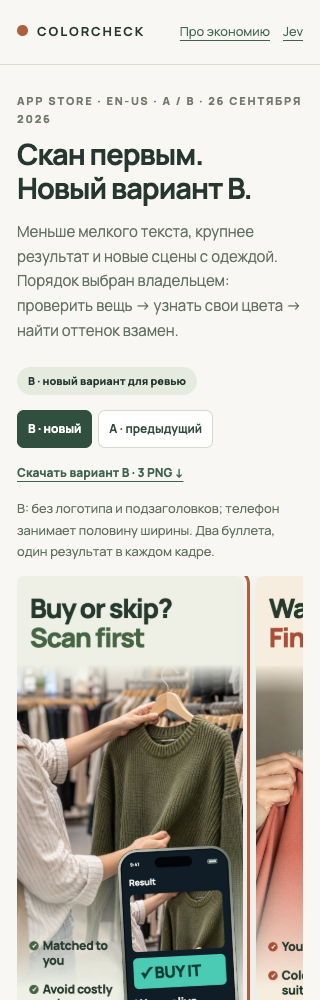
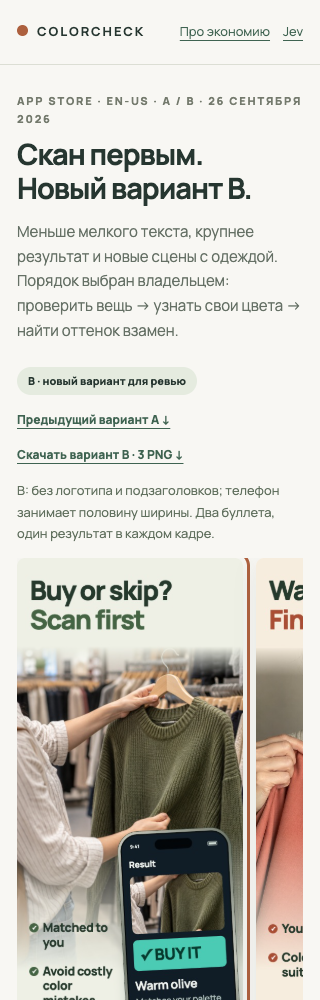
Stack ColorCheck screenshot versions instead of tabs

Changed region(s): [[0.0312, 0.403, 0.9688, 1.0]]

diff --git a/colorcheck/screenshots/index.html b/colorcheck/screenshots/index.html
@@ -2,14 +2,15 @@
 @font-face{font-family:Manrope;src:url('v4/fonts/Manrope.ttf');font-weight:200 800;font-display:swap}*{box-sizing:border-box}html{scroll-behavior:smooth;scroll-padding-top:30px}body{margin:0;background:#f8f7f3;color:#263630;font:15px/1.65 Manrope,system-ui,sans-serif}a{color:#3f6351;text-underline-offset:4px}button,select{font:inherit}button,a,select{touch-action:manipulation}button:focus-visible,a:focus-visible,select:focus-visible{outline:3px solid #ad603e;outline-offset:4px}nav,main,footer{max-width:1180px;margin:auto;padding:0 28px}nav{min-height:74px;display:flex;align-items:center;justify-content:space-between;gap:20px;border-bottom:1px solid #dcded4}nav b{font-size:13px;letter-spacing:2px}nav b:before{content:'';display:inline-block;width:11px;height:11px;background:#ad603e;border-radius:50%;margin-right:9px}nav div{display:flex;gap:22px;font-size:13px}header{padding:39px 0 23px}.eyebrow{font-size:11px;letter-spacing:1.8px;text-transform:uppercase;color:#747a6d;font-weight:800}h1{font-size:clamp(29px,4.1vw,49px);letter-spacing:-2px;line-height:1.15;margin:10px 0 15px}header p{max-width:790px;font-size:16px;color:#657065;margin:0}.badge{display:inline-block;font-size:11px;font-weight:800;border-radius:20px;background:#e5ebdf;padding:5px 11px;margin-bottom:12px}.toolbar{display:flex;justify-content:space-between;align-items:center;gap:15px;flex-wrap:wrap;margin:3px 0 16px}.order{display:flex;gap:6px;flex-wrap:wrap}.order button{border:1px solid #d4dbcf;background:#fff;color:#334b3e;padding:9px 14px;border-radius:7px;cursor:pointer;font-size:13px;font-weight:700}.order button[aria-pressed=true]{background:#304f3e;border-color:#304f3e;color:white}.toolbar>a{font-size:12px;font-weight:800}.shots{display:grid;grid-template-columns:repeat(3,minmax(0,1fr));gap:18px;align-items:start}.tile{margin:0;min-width:0}.open-image{padding:0;display:block;border:0;background:none;cursor:zoom-in;width:100%;border-radius:8px;overflow:hidden;box-shadow:0 5px 24px #26363012}.open-image img{display:block;width:100%;height:auto}.caption{display:flex;gap:12px;margin-top:17px}.caption>span{font-size:11px;font-weight:800;color:#85927e;padding-top:3px}.caption b{display:block;font-size:15px;line-height:1.4}.caption p{font-size:13px;color:#6b7468;margin:6px 0}.caption a{font-size:12px}.note{color:#687266;font-size:13px;max-width:940px}.order-note{min-height:43px}.decision{padding:25px 28px;background:#e9eee3;border-left:4px solid #607c59;margin-top:30px;display:grid;grid-template-columns:1fr 1.5fr;gap:25px}.decision h2{margin:0;font-size:25px;line-height:1.35;letter-spacing:-.7px}.decision p{margin:0;color:#4c5d4e;font-size:14px}section{padding:42px 0 5px;border-top:1px solid #dedfd6;margin-top:35px}h2{font-size:29px;line-height:1.25;letter-spacing:-.8px;margin:10px 0 14px}h3{font-size:17px;line-height:1.4;margin:0 0 9px}.intro{max-width:830px;color:#62705f}.mini-grid{display:grid;grid-template-columns:repeat(3,1fr);gap:14px;margin:22px 0}.card{background:white;border:1px solid #dfe3d8;padding:21px;border-radius:9px}.card p{font-size:13px;color:#687163;margin:0}.card strong{display:block;font-size:29px;line-height:1.15;margin-bottom:10px;letter-spacing:-.6px}.research-controls{display:flex;align-items:center;gap:12px;flex-wrap:wrap;margin:20px 0 8px}label{font-size:13px;font-weight:800}select{border:1px solid #cbd2c4;border-radius:7px;background:white;padding:8px 12px;color:#304332;max-width:100%;font-size:13px}.scroll{overflow-x:auto}table{border-collapse:collapse;width:100%;background:#fff;font-size:13px}th,td{text-align:left;border-bottom:1px solid #e5e7df;padding:13px 14px;vertical-align:top}th{color:#71816b;font-size:10px;text-transform:uppercase;letter-spacing:1px;background:#f0f2eb}tr.selected{background:#ecf2e6}.num{font-variant-numeric:tabular-nums;white-space:nowrap}.bar{display:inline-block;width:65px;height:5px;border-radius:4px;background:#e3e9dd;vertical-align:middle;margin-right:10px}.bar i{display:block;height:100%;background:#7e9770}.split{display:grid;grid-template-columns:1fr 1fr;gap:25px;margin:24px 0}.split p{font-size:14px;color:#60705e}.readability{max-width:708px}.readability img{display:block;width:100%;height:auto;border:1px solid #e2e5db;border-radius:8px}.links{display:flex;gap:18px;flex-wrap:wrap;font-size:13px;margin:15px 0}.archive{display:grid;grid-template-columns:repeat(3,1fr);gap:18px}.archive img{width:100%;height:auto;display:block;border-radius:5px}.archive a{font-size:13px}.limits{background:#f2eae0;padding:19px 23px;border-radius:8px;font-size:13px;color:#765b43}footer{border-top:1px solid #dde2d5;margin-top:45px;padding-top:22px;padding-bottom:35px;font-size:12px;color:#71806a}dialog{padding:0;border:0;background:#17291f;max-width:96vw;max-height:96vh;border-radius:12px;color:#fff}dialog::backdrop{background:#152018e6}.lightbox-tools{display:flex;align-items:center;justify-content:center;gap:10px;position:sticky;top:0;padding:10px;background:#17291fee;flex-wrap:wrap}.lightbox-tools button,.lightbox-tools a{border:1px solid #7c8b7d;color:white;background:transparent;border-radius:5px;padding:5px 12px;cursor:pointer;text-decoration:none;font-size:13px}#zoom-img{display:block;max-height:82vh;max-width:90vw;width:auto;height:auto;margin:auto}#zoom-img.expanded{max-height:none;width:1320px;max-width:none}.lightbox-content{overflow:auto;max-height:84vh}#zoom-caption{font-size:12px;margin:0 6px}
 @media(max-width:760px){nav,main,footer{padding-left:17px;padding-right:17px}nav{min-height:65px}nav div{gap:13px}nav div a:last-child{display:none}header{padding-top:27px}h1{letter-spacing:-1px}.shots{display:flex;overflow-x:auto;gap:13px;scroll-snap-type:x mandatory;padding:0 0 15px}.tile{flex:0 0 79%;scroll-snap-align:start}.decision{grid-template-columns:1fr;gap:12px;padding:22px}.mini-grid{grid-template-columns:1fr}.card{padding:17px}.card strong{font-size:23px}.split{grid-template-columns:1fr;gap:10px}.archive{gap:9px}.caption b{font-size:14px}.order button{padding:8px 10px;font-size:12px}section{padding-top:27px}h2{font-size:25px}.lightbox-tools{gap:6px}.bar{display:none}}
 
-[hidden]{display:none!important}.tabs-note{font-size:13px;color:#61705e;max-width:900px}.changes{display:grid;grid-template-columns:repeat(4,1fr);gap:13px;margin:23px 0}.changes .card{padding:18px}.changes b{display:block;font-size:17px;line-height:1.35;margin-bottom:7px}.money-answer{font-size:20px;line-height:1.5;max-width:850px}.money-answer b{color:#426047}.archive-links{display:flex;gap:18px;flex-wrap:wrap}#panel-A .shots,#panel-B .shots{min-width:0}header p{max-width:810px}.variant-panel{margin-top:10px}.under-gallery{font-size:13px;color:#667361;margin:20px 0}.download-note{font-size:11px;color:#75806e}.review-hint{font-size:13px;padding:13px 17px;background:#e7eddf;border-radius:8px}.note code{overflow-wrap:anywhere}@media(max-width:760px){.changes{grid-template-columns:1fr 1fr}.changes .card{padding:14px}.changes b{font-size:15px}.money-answer{font-size:17px}header p{font-size:15px}.toolbar{align-items:flex-start}}
-</style></head><body><nav><b>COLORCHECK</b><div><a href="#money">Про экономию</a><a href="#jev">Jev</a><a href="#history">История</a></div></nav><main><header><div class="eyebrow">App Store · EN-US · A / B · 26 сентября 2026</div><h1>Скан первым.<br>Новый вариант B.</h1><p>Меньше мелкого текста, крупнее результат и новые сцены с одеждой. Порядок выбран владельцем: проверить вещь → узнать свои цвета → найти оттенок взамен.</p></header><span class="badge">B · новый вариант для ревью</span><div class="toolbar"><div class="order" aria-label="Варианты скриншотов"><button type="button" data-tab="B" aria-pressed="true">B · новый</button><button type="button" data-tab="A" aria-pressed="false">A · предыдущий</button></div><a id="download-set" href="v5/exports/colorcheck-B.zip" download>Скачать вариант B · 3 PNG ↓</a></div><p class="tabs-note" id="tabs-note">B: без логотипа и подзаголовков; телефон занимает половину ширины. Два буллета, один результат в каждом кадре.</p><div class="variant-panel" id="panel-B" ><div class="shots"><figure class="tile"><button class="open-image" data-image="C02" data-variant="B" aria-label="Увеличить B1: Buy or skip? Scan first"><img src="v5/previews/C02.jpg" width="440" height="956" alt="Buy or skip? Scan first"></button><figcaption class="caption"><span>B1</span><div><b>Проверить цвет до покупки</b><p>Buy or skip? / Scan first</p><a href="v5/exports/C02.png" download>Скачать PNG ↗</a></div></figcaption></figure><figure class="tile"><button class="open-image" data-image="C01" data-variant="B" aria-label="Увеличить B2: Washed out? Find your colors"><img src="v5/previews/C01.jpg" width="440" height="956" alt="Washed out? Find your colors"></button><figcaption class="caption"><span>B2</span><div><b>Найти свои цвета</b><p>Washed out? / Find your colors</p><a href="v5/exports/C01.png" download>Скачать PNG ↗</a></div></figcaption></figure><figure class="tile"><button class="open-image" data-image="C03" data-variant="B" aria-label="Увеличить B3: Wrong color? Try these shades"><img src="v5/previews/C03.jpg" width="440" height="956" alt="Wrong color? Try these shades"></button><figcaption class="caption"><span>B3</span><div><b>Получить оттенки взамен</b><p>Wrong color? / Try these shades</p><a href="v5/exports/C03.png" download>Скачать PNG ↗</a></div></figcaption></figure></div></div><div class="variant-panel" id="panel-A" hidden><div class="shots"><figure class="tile"><button class="open-image" data-image="C02" data-variant="A" aria-label="Увеличить A1: Your color? Scan to check"><img src="v4/previews/C02.jpg" width="440" height="956" alt="Your color? Scan to check"></button><figcaption class="caption"><span>A1</span><div><b>Проверить цвет до покупки</b><p>Your color? / Scan to check</p><a href="v4/exports/C02.png" download>Скачать PNG ↗</a></div></figcaption></figure><figure class="tile"><button class="open-image" data-image="C01" data-variant="A" aria-label="Увеличить A2: Which colors suit you?"><img src="v4/previews/C01.jpg" width="440" height="956" alt="Which colors suit you?"></button><figcaption class="caption"><span>A2</span><div><b>Найти свои цвета</b><p>Which colors / suit you?</p><a href="v4/exports/C01.png" download>Скачать PNG ↗</a></div></figcaption></figure><figure class="tile"><button class="open-image" data-image="C03" data-variant="A" aria-label="Увеличить A3: Wrong color? Try these shades"><img src="v4/previews/C03.jpg" width="440" height="956" alt="Wrong color? Try these shades"></button><figcaption class="caption"><span>A3</span><div><b>Получить оттенки взамен</b><p>Wrong color? / Try these shades</p><a href="v4/exports/C03.png" download>Скачать PNG ↗</a></div></figcaption></figure></div></div><p class="under-gallery">Нажмите на кадр для увеличения. На телефоне ряд листается горизонтально. В обоих вариантах для сравнения скан стоит первым; исходные PNG варианта A сохранены без изменений.</p>
+[hidden]{display:none!important}.version-note{font-size:13px;color:#61705e;max-width:900px}.changes{display:grid;grid-template-columns:repeat(4,1fr);gap:13px;margin:23px 0}.changes .card{padding:18px}.changes b{display:block;font-size:17px;line-height:1.35;margin-bottom:7px}.money-answer{font-size:20px;line-height:1.5;max-width:850px}.money-answer b{color:#426047}.archive-links{display:flex;gap:18px;flex-wrap:wrap}#panel-A .shots,#panel-B .shots{min-width:0}header p{max-width:810px}.variant-panel{margin-top:10px}.under-gallery{font-size:13px;color:#667361;margin:20px 0}.download-note{font-size:11px;color:#75806e}.review-hint{font-size:13px;padding:13px 17px;background:#e7eddf;border-radius:8px}.note code{overflow-wrap:anywhere}@media(max-width:760px){.changes{grid-template-columns:1fr 1fr}.changes .card{padding:14px}.changes b{font-size:15px}.money-answer{font-size:17px}header p{font-size:15px}.toolbar{align-items:flex-start}}
+</style></head><body><nav><b>COLORCHECK</b><div><a href="#money">Про экономию</a><a href="#jev">Jev</a><a href="#history">История</a></div></nav><main><header><div class="eyebrow">App Store · EN-US · A / B · 26 сентября 2026</div><h1>Скан первым.<br>Новый вариант B.</h1><p>Меньше мелкого текста, крупнее результат и новые сцены с одеждой. Порядок выбран владельцем: проверить вещь → узнать свои цвета → найти оттенок взамен.</p></header><span class="badge">B · новый вариант для ревью</span><div class="toolbar"><a href="#previous-A">Предыдущий вариант A ↓</a><a id="download-b" href="v5/exports/colorcheck-B.zip" download>Скачать вариант B · 3 PNG ↓</a></div><p class="version-note">B: без логотипа и подзаголовков; телефон занимает половину ширины. Два буллета, один результат в каждом кадре.</p><div class="variant-panel" id="panel-B"><div class="shots"><figure class="tile"><button class="open-image" data-image="C02" data-variant="B" aria-label="Увеличить B1: Buy or skip? Scan first"><img src="v5/previews/C02.jpg" width="440" height="956" alt="Buy or skip? Scan first"></button><figcaption class="caption"><span>B1</span><div><b>Проверить цвет до покупки</b><p>Buy or skip? / Scan first</p><a href="v5/exports/C02.png" download>Скачать PNG ↗</a></div></figcaption></figure><figure class="tile"><button class="open-image" data-image="C01" data-variant="B" aria-label="Увеличить B2: Washed out? Find your colors"><img src="v5/previews/C01.jpg" width="440" height="956" alt="Washed out? Find your colors"></button><figcaption class="caption"><span>B2</span><div><b>Найти свои цвета</b><p>Washed out? / Find your colors</p><a href="v5/exports/C01.png" download>Скачать PNG ↗</a></div></figcaption></figure><figure class="tile"><button class="open-image" data-image="C03" data-variant="B" aria-label="Увеличить B3: Wrong color? Try these shades"><img src="v5/previews/C03.jpg" width="440" height="956" alt="Wrong color? Try these shades"></button><figcaption class="caption"><span>B3</span><div><b>Получить оттенки взамен</b><p>Wrong color? / Try these shades</p><a href="v5/exports/C03.png" download>Скачать PNG ↗</a></div></figcaption></figure></div></div><p class="under-gallery">Нажмите на кадр для увеличения. На телефоне ряд листается горизонтально. Предыдущий вариант A показан ниже на этой странице. В обоих рядах скан стоит первым.</p>
 <div class="changes"><div class="card"><b>Убран шум</b><p>Нет маленького логотипа и строки под заголовком.</p></div><div class="card"><b>Крупнее результат</b><p>Телефон 220 px вместо 155. Основной текст результата 21–31 px.</p></div><div class="card"><b>Другие фотографии</b><p>Руки, ткань, обычный гардероб. Без окна и городского фона.</p></div><div class="card"><b>Цепче заголовки</b><p>Buy or skip? · Washed out? Короткий вопрос и понятное действие.</p></div></div>
+<section id="previous-A"><div class="eyebrow">Предыдущая версия · сохранена без изменений</div><h2>Вариант A</h2><p class="intro">Более ранняя тройка с небольшим телефоном. Оставлена целиком ниже нового B, чтобы сравнивать без переключения.</p><div class="toolbar"><a href="#panel-B">К новому варианту B ↑</a><a id="download-a" href="v4/exports/colorcheck-v4.zip" download>Скачать вариант A · 3 PNG ↓</a></div><div class="variant-panel" id="panel-A"><div class="shots"><figure class="tile"><button class="open-image" data-image="C02" data-variant="A" aria-label="Увеличить A1: Your color? Scan to check"><img src="v4/previews/C02.jpg" width="440" height="956" alt="Your color? Scan to check"></button><figcaption class="caption"><span>A1</span><div><b>Проверить цвет до покупки</b><p>Your color? / Scan to check</p><a href="v4/exports/C02.png" download>Скачать PNG ↗</a></div></figcaption></figure><figure class="tile"><button class="open-image" data-image="C01" data-variant="A" aria-label="Увеличить A2: Which colors suit you?"><img src="v4/previews/C01.jpg" width="440" height="956" alt="Which colors suit you?"></button><figcaption class="caption"><span>A2</span><div><b>Найти свои цвета</b><p>Which colors / suit you?</p><a href="v4/exports/C01.png" download>Скачать PNG ↗</a></div></figcaption></figure><figure class="tile"><button class="open-image" data-image="C03" data-variant="A" aria-label="Увеличить A3: Wrong color? Try these shades"><img src="v4/previews/C03.jpg" width="440" height="956" alt="Wrong color? Try these shades"></button><figcaption class="caption"><span>A3</span><div><b>Получить оттенки взамен</b><p>Wrong color? / Try these shades</p><a href="v4/exports/C03.png" download>Скачать PNG ↗</a></div></figcaption></figure></div></div></section>
 <section id="money"><div class="eyebrow">Ответ на вопрос про деньги</div><h2>Да, мотив экономии нужен.</h2><p class="money-answer">В B1 он выражен как <b>“Avoid costly color mistakes”</b> — «избегай дорогих ошибок с цветом». Человек видит, зачем проверять вещь до покупки, и сразу получает пример BUY / SKIP.</p><p class="intro">Сумму экономии не придумываем: приложение проверяет цвет, а не гарантирует, что человек потратит меньше. Поэтому здесь нет “Saved $79” и обещания “Save money on clothes”.</p><div class="scroll"><table><thead><tr><th>Второй буллет при точном финальном заголовке B1</th><th>Предпочтение Jev</th><th>Проход A</th><th>Проход B</th></tr></thead><tbody><tr class="selected"><td>Avoid costly color mistakes</td><td class="num">0.589</td><td class="num">0.528</td><td class="num">0.651</td></tr><tr class=""><td>Scan before you spend</td><td class="num">0.288</td><td class="num">0.351</td><td class="num">0.224</td></tr><tr class=""><td>Save money on clothes</td><td class="num">0.092</td><td class="num">0.090</td><td class="num">0.094</td></tr><tr class=""><td>None</td><td class="num">0.018</td><td class="num">0.017</td><td class="num">0.018</td></tr><tr class=""><td>Matched to your palette</td><td class="num">0.013</td><td class="num">0.014</td><td class="num">0.013</td></tr></tbody></table></div><p class="note">60 запросов на 30 синтетических профилях, два порядка ответов. Заголовок: Buy or skip? / Scan first; первый буллет: Matched to you. Вероятности модели среди этих вариантов, не проценты скачиваний. Последняя формулировка дублирует первый буллет.</p></section>
 <section id="jev"><div class="eyebrow">Копирайт · Codex × Jev</div><h2>Что проверили перед вариантом B.</h2><p class="intro">Три набора заголовков и формулировки про деньги. Сначала 60 запросов, затем ещё 60 на точном финальном первом кадре. Использованы те же 30 профилей. Фотографии и готовую композицию Jev не видел.</p><div class="scroll"><table><thead><tr><th>Кадр</th><th>Выбранный заголовок</th><th>Предпочтение</th><th>Проход A</th><th>Проход B</th></tr></thead><tbody><tr><td>B1 · скан</td><td><b>Buy or skip? / Scan first</b></td><td class="num">0.737</td><td class="num">0.855</td><td class="num">0.619</td></tr><tr><td>B2 · палитра</td><td><b>Washed out? / Find your colors</b></td><td class="num">0.424</td><td class="num">0.334</td><td class="num">0.514</td></tr><tr><td>B3 · замена</td><td><b>Wrong color? / Try these shades</b></td><td class="num">0.567</td><td class="num">0.451</td><td class="num">0.682</td></tr></tbody></table></div><p class="note">Для палитры лидер меняется между проходами: Stop guessing / what suits you выигрывает A. Выбран Washed out? за конкретную проблему и явное слово colors. Третий заголовок сохранён из A: более громкие варианты не улучшили ясность. Полные готовые серии A/B здесь не сравнивались, выигрыш конверсии не измерен.</p><div class="links"><a href="v5/research/FINDINGS.md">Полный разбор ↗</a><a href="v5/research/summary.json">Турнир заголовков · JSON ↗</a><a href="v5/research/final-money-summary.json">Экономия в финальном контексте · JSON ↗</a><a href="https://github.com/love8ko/colorcheck/tree/love8ko/screenshots/research/screenshots-conversion-v5">Промпты и ответы · приватный GitHub ↗</a></div></section>
 <section><div class="eyebrow">Масштаб App Store</div><h2>Вариант B при ширине 220 px.</h2><div class="readability"><a href="v5/previews/contact-220.png"><img src="v5/previews/contact-220.png" width="708" height="502" alt="Вариант B: скан, палитра, оттенки взамен — 220 пикселей на кадр" loading="lazy"></a></div><div class="links"><a href="v5/previews/contact-180.png">Посмотреть при 180 px ↗</a><a href="v5/copy.json">Точный текст B ↗</a><a href="v5/qa/render.json">Размеры, переполнения, хеши ↗</a></div><p class="note">Фото сгенерированы встроенным ImageGen. Новый визуальный подход делает акцент на действии и тканях, но это всё ещё иллюстрации, а не документальная съёмка. Интерфейс в телефоне укрупнён и упрощён для концепта. Сезон, BUY/SKIP и оттенки взамен соответствуют функциям кода; runtime-прогон в этой итерации не выполнялся.</p></section>
-<section id="history"><div class="eyebrow">Сохранённые версии</div><h2>A остаётся рядом с B.</h2><div class="archive-links"><a href="archive/v4/">Исходная страница A / V4 с консилиумом ↗</a><a href="archive/v3/">V3 · маленький телефон ↗</a><a href="archive/v2/">V2 · сцены ↗</a></div><p class="note">Для текущего сравнения A/B скан первым зафиксирован по выбору владельца. Старый эксперимент с палитрой первой доступен в архиве. После выбора визуального варианта можно сравнивать реальные скачивания при неизменных остальных условиях.</p></section></main><footer>ColorCheck · вариант B · 26 сентября 2026. Концепт для ревью. Реальная конверсия не измерена; в App Store Connect не загружено.</footer>
+<section id="history"><div class="eyebrow">Сохранённые версии</div><h2>История вариантов.</h2><div class="archive-links"><a href="archive/v4/">Исходная страница A / V4 с консилиумом ↗</a><a href="archive/v3/">V3 · маленький телефон ↗</a><a href="archive/v2/">V2 · сцены ↗</a></div><p class="note">Для текущего сравнения A/B скан первым зафиксирован по выбору владельца. Старый эксперимент с палитрой первой доступен в архиве. После выбора визуального варианта можно сравнивать реальные скачивания при неизменных остальных условиях.</p></section></main><footer>ColorCheck · вариант B · 26 сентября 2026. Концепт для ревью. Реальная конверсия не измерена; в App Store Connect не загружено.</footer>
 <dialog id="zoom" aria-label="Просмотр скриншота"><div class="lightbox-tools"><button id="prev" type="button" aria-label="Предыдущий">←</button><span id="zoom-caption"></span><button id="next" type="button" aria-label="Следующий">→</button><button id="enlarge" type="button">100%</button><a id="save" download>PNG ↓</a><button id="close" type="button">Закрыть ×</button></div><div class="lightbox-content"><img id="zoom-img" alt=""></div></dialog><script>
-const SETS={"A":{"rev":"v4","frames":[{"headline":["Your color?","Scan to check"],"benefit":"Check clothes before you buy","visibleProof":["BUY or SKIP","Matched to you"],"scene":"Woman comparing an olive sweater in a clothing store; small phone showing BUY result and explanation, with enlarged result callouts.","id":"C02","asset":"S01-store.jpg","theme":"green","pain":"Не понимаю, подходит ли цвет вещи до покупки","role":"Практическое применение своей палитры в магазине","ui":{"title":"Result","verdict":"BUY IT","match":"Matches your palette","why":"Why it works","reason":"Warm olive complements your Warm Autumn palette.","button":"Scan Next"},"proof":["BUY or SKIP","Matched to you"],"source":"ColorCheck/ColorCheck/Views/Scanner/ScanResultView.swift","kind":"scan","brand":"COLORCHECK","statusTime":"9:41","dimensions":[1320,2868],"readiness":"for-review","sourceProductCommit":"836e724aa8afbfdbe0f8e2af5b7858f67f81e8d0","visualLimit":"Illustrative composition and reconstructed UI based on code; not a live app capture. Example AI result. No measured accuracy or financial result."},{"headline":["Which colors","suit you?"],"benefit":"Find your season & palette","visibleProof":["Warm Autumn","Your colors"],"scene":"Woman taking a selfie near a window; small phone showing a seasonal color profile and a large row of wearable color swatches.","id":"C01","asset":"S02-season.jpg","theme":"peach","pain":"Не знаю, какие цвета мне подходят","role":"Широкий вход в категорию: персональный результат","ui":{"title":"Your Colors","season":"Warm Autumn","undertone":"Warm undertone","best":"Your Best Colors","avoid":"Colors to Avoid","button":"Start Scanning Clothes"},"proof":["Warm","Autumn"],"source":"ColorCheck/ColorCheck/Views/Analysis/ColorResultView.swift","kind":"palette","brand":"COLORCHECK","statusTime":"9:41","dimensions":[1320,2868],"readiness":"for-review","sourceProductCommit":"836e724aa8afbfdbe0f8e2af5b7858f67f81e8d0","visualLimit":"Illustrative composition and reconstructed UI based on code; not a live app capture. Example AI result. No measured accuracy or financial result."},{"headline":["Wrong color?","Try these shades"],"benefit":"Get colors to look for instead","visibleProof":["SKIP","Try warm olive"],"scene":"Woman looking at unworn cool blue clothing in her closet; small phone showing SKIP and suggested alternative colors, enlarged blue-to-olive swatches. This is color advice, not finding a shop product.","id":"C03","asset":"S04-unworn.jpg","theme":"blue","pain":"Цвет не подходит — какой искать вместо него?","role":"Следующее действие после SKIP: получить подходящие оттенки","ui":{"title":"Result","verdict":"SKIP","match":"Cool blue","why":"Instead, Look For","reason":"Try warm olive or terracotta for your Warm Autumn palette.","button":"Scan Next"},"proof":["SKIP","Try warm olive"],"source":"ColorCheck/ColorCheck/Views/Scanner/ScanResultView.swift:325","kind":"alternatives","brand":"COLORCHECK","statusTime":"9:41","dimensions":[1320,2868],"readiness":"for-review","sourceProductCommit":"836e724aa8afbfdbe0f8e2af5b7858f67f81e8d0","visualLimit":"Illustrative composition and reconstructed UI based on code; not a live app capture. Example AI result. No measured accuracy or financial result."}]},"B":{"rev":"v5","frames":[{"id":"C02","kind":"scan","asset":"C02-shopping.png","theme":"green","headline":["Buy or skip?","Scan first"],"bullets":["Matched to you","Avoid costly color mistakes"],"pain":"Подойдёт ли цвет этой вещи до покупки?","ui":{"title":"Result","verdict":"BUY IT","color":"Warm olive","detail":"Matches your palette","button":"Scan Next"},"scene":"Candid close-up of hands comparing an olive knitted sweater in a normal clothing shop. No face.","statusTime":"9:41","dimensions":[1320,2868],"readiness":"for-review","variant":"B","sourceProductCommit":"836e724aa8afbfdbe0f8e2af5b7858f67f81e8d0","visualLimit":"AI-generated illustrative photograph and editorial enlarged app UI, not a runtime capture. No measured savings or accuracy claim."},{"id":"C01","kind":"palette","asset":"C01-palette.png","theme":"peach","headline":["Washed out?","Find your colors"],"bullets":["Your season","Colors that suit you"],"pain":"В некоторых цветах выгляжу бледнее — какие мне подходят?","ui":{"title":"Your Colors","season":["Warm","Autumn"],"undertone":"Warm undertone","best":"Your colors","avoid":"Colors to avoid"},"scene":"Natural close-up of lower face and neck with coral and lavender draping fabrics, plain wall, no window.","statusTime":"9:41","dimensions":[1320,2868],"readiness":"for-review","variant":"B","sourceProductCommit":"836e724aa8afbfdbe0f8e2af5b7858f67f81e8d0","visualLimit":"AI-generated illustrative photograph and editorial enlarged app UI, not a runtime capture. No measured savings or accuracy claim."},{"id":"C03","kind":"alternatives","asset":"C03-alternatives.png","theme":"blue","headline":["Wrong color?","Try these shades"],"bullets":["Colors to skip","Shades to try instead"],"pain":"Какой оттенок искать вместо неподходящего?","ui":{"title":"Result","verdict":"SKIP","color":"Cool blue","detail":"Try instead","alternatives":["Warm olive","Terracotta"]},"scene":"Hands selecting a cool blue tagged blouse beside olive and terracotta clothes in an ordinary wardrobe.","statusTime":"9:41","dimensions":[1320,2868],"readiness":"for-review","variant":"B","sourceProductCommit":"836e724aa8afbfdbe0f8e2af5b7858f67f81e8d0","visualLimit":"AI-generated illustrative photograph and editorial enlarged app UI, not a runtime capture. No measured savings or accuracy claim."}]}};const q=s=>document.querySelector(s);let variant='B',activeIndex=0,activeVariant='B';function select(v){variant=v;document.querySelectorAll('[data-tab]').forEach(b=>b.setAttribute('aria-pressed',b.dataset.tab===v));for(const key of ['A','B'])q('#panel-'+key).hidden=key!==v;q('#panel-'+v+' .shots').scrollLeft=0;q('#download-set').href=v==='B'?'v5/exports/colorcheck-B.zip':'v4/exports/colorcheck-v4.zip';q('#download-set').textContent='Скачать вариант '+v+' · 3 PNG ↓';q('#tabs-note').textContent=v==='B'?'B: без логотипа и подзаголовков; телефон занимает половину ширины. Два буллета, один результат в каждом кадре.':'A: исходные изображения V4, сохранённые побайтово. Здесь они показаны со сканером первым для сравнения с B.';const url=new URL(location.href);url.searchParams.set('variant',v);history.replaceState(null,'',url)}document.querySelectorAll('[data-tab]').forEach(b=>b.onclick=()=>select(b.dataset.tab));select(new URLSearchParams(location.search).get('variant')==='A'?'A':'B');
+const SETS={"A":{"rev":"v4","frames":[{"headline":["Your color?","Scan to check"],"benefit":"Check clothes before you buy","visibleProof":["BUY or SKIP","Matched to you"],"scene":"Woman comparing an olive sweater in a clothing store; small phone showing BUY result and explanation, with enlarged result callouts.","id":"C02","asset":"S01-store.jpg","theme":"green","pain":"Не понимаю, подходит ли цвет вещи до покупки","role":"Практическое применение своей палитры в магазине","ui":{"title":"Result","verdict":"BUY IT","match":"Matches your palette","why":"Why it works","reason":"Warm olive complements your Warm Autumn palette.","button":"Scan Next"},"proof":["BUY or SKIP","Matched to you"],"source":"ColorCheck/ColorCheck/Views/Scanner/ScanResultView.swift","kind":"scan","brand":"COLORCHECK","statusTime":"9:41","dimensions":[1320,2868],"readiness":"for-review","sourceProductCommit":"836e724aa8afbfdbe0f8e2af5b7858f67f81e8d0","visualLimit":"Illustrative composition and reconstructed UI based on code; not a live app capture. Example AI result. No measured accuracy or financial result."},{"headline":["Which colors","suit you?"],"benefit":"Find your season & palette","visibleProof":["Warm Autumn","Your colors"],"scene":"Woman taking a selfie near a window; small phone showing a seasonal color profile and a large row of wearable color swatches.","id":"C01","asset":"S02-season.jpg","theme":"peach","pain":"Не знаю, какие цвета мне подходят","role":"Широкий вход в категорию: персональный результат","ui":{"title":"Your Colors","season":"Warm Autumn","undertone":"Warm undertone","best":"Your Best Colors","avoid":"Colors to Avoid","button":"Start Scanning Clothes"},"proof":["Warm","Autumn"],"source":"ColorCheck/ColorCheck/Views/Analysis/ColorResultView.swift","kind":"palette","brand":"COLORCHECK","statusTime":"9:41","dimensions":[1320,2868],"readiness":"for-review","sourceProductCommit":"836e724aa8afbfdbe0f8e2af5b7858f67f81e8d0","visualLimit":"Illustrative composition and reconstructed UI based on code; not a live app capture. Example AI result. No measured accuracy or financial result."},{"headline":["Wrong color?","Try these shades"],"benefit":"Get colors to look for instead","visibleProof":["SKIP","Try warm olive"],"scene":"Woman looking at unworn cool blue clothing in her closet; small phone showing SKIP and suggested alternative colors, enlarged blue-to-olive swatches. This is color advice, not finding a shop product.","id":"C03","asset":"S04-unworn.jpg","theme":"blue","pain":"Цвет не подходит — какой искать вместо него?","role":"Следующее действие после SKIP: получить подходящие оттенки","ui":{"title":"Result","verdict":"SKIP","match":"Cool blue","why":"Instead, Look For","reason":"Try warm olive or terracotta for your Warm Autumn palette.","button":"Scan Next"},"proof":["SKIP","Try warm olive"],"source":"ColorCheck/ColorCheck/Views/Scanner/ScanResultView.swift:325","kind":"alternatives","brand":"COLORCHECK","statusTime":"9:41","dimensions":[1320,2868],"readiness":"for-review","sourceProductCommit":"836e724aa8afbfdbe0f8e2af5b7858f67f81e8d0","visualLimit":"Illustrative composition and reconstructed UI based on code; not a live app capture. Example AI result. No measured accuracy or financial result."}]},"B":{"rev":"v5","frames":[{"id":"C02","kind":"scan","asset":"C02-shopping.png","theme":"green","headline":["Buy or skip?","Scan first"],"bullets":["Matched to you","Avoid costly color mistakes"],"pain":"Подойдёт ли цвет этой вещи до покупки?","ui":{"title":"Result","verdict":"BUY IT","color":"Warm olive","detail":"Matches your palette","button":"Scan Next"},"scene":"Candid close-up of hands comparing an olive knitted sweater in a normal clothing shop. No face.","statusTime":"9:41","dimensions":[1320,2868],"readiness":"for-review","variant":"B","sourceProductCommit":"836e724aa8afbfdbe0f8e2af5b7858f67f81e8d0","visualLimit":"AI-generated illustrative photograph and editorial enlarged app UI, not a runtime capture. No measured savings or accuracy claim."},{"id":"C01","kind":"palette","asset":"C01-palette.png","theme":"peach","headline":["Washed out?","Find your colors"],"bullets":["Your season","Colors that suit you"],"pain":"В некоторых цветах выгляжу бледнее — какие мне подходят?","ui":{"title":"Your Colors","season":["Warm","Autumn"],"undertone":"Warm undertone","best":"Your colors","avoid":"Colors to avoid"},"scene":"Natural close-up of lower face and neck with coral and lavender draping fabrics, plain wall, no window.","statusTime":"9:41","dimensions":[1320,2868],"readiness":"for-review","variant":"B","sourceProductCommit":"836e724aa8afbfdbe0f8e2af5b7858f67f81e8d0","visualLimit":"AI-generated illustrative photograph and editorial enlarged app UI, not a runtime capture. No measured savings or accuracy claim."},{"id":"C03","kind":"alternatives","asset":"C03-alternatives.png","theme":"blue","headline":["Wrong color?","Try these shades"],"bullets":["Colors to skip","Shades to try instead"],"pain":"Какой оттенок искать вместо неподходящего?","ui":{"title":"Result","verdict":"SKIP","color":"Cool blue","detail":"Try instead","alternatives":["Warm olive","Terracotta"]},"scene":"Hands selecting a cool blue tagged blouse beside olive and terracotta clothes in an ordinary wardrobe.","statusTime":"9:41","dimensions":[1320,2868],"readiness":"for-review","variant":"B","sourceProductCommit":"836e724aa8afbfdbe0f8e2af5b7858f67f81e8d0","visualLimit":"AI-generated illustrative photograph and editorial enlarged app UI, not a runtime capture. No measured savings or accuracy claim."}]}};const q=s=>document.querySelector(s);let activeIndex=0,activeVariant='B';if(new URLSearchParams(location.search).get('variant')==='A'&&!location.hash)location.hash='previous-A';
 const modal=q('#zoom');function show(v,i){activeVariant=v;activeIndex=i;const s=SETS[v],f=s.frames[i];q('#zoom-img').src=s.rev+'/exports/'+f.id+'.png';q('#zoom-img').alt=f.headline.join(' ');q('#zoom-caption').textContent=v+(i+1)+' · '+f.headline.join(' ');q('#save').href=q('#zoom-img').src;q('#zoom-img').classList.remove('expanded');q('#enlarge').textContent='100%'}function step(d){show(activeVariant,(activeIndex+d+3)%3)}document.querySelectorAll('[data-image]').forEach(b=>b.onclick=()=>{show(b.dataset.variant,SETS[b.dataset.variant].frames.findIndex(f=>f.id===b.dataset.image));modal.showModal()});q('#prev').onclick=()=>step(-1);q('#next').onclick=()=>step(1);q('#close').onclick=()=>modal.close();q('#enlarge').onclick=()=>{q('#enlarge').textContent=q('#zoom-img').classList.toggle('expanded')?'По высоте':'100%'};modal.addEventListener('keydown',e=>{if(e.key==='ArrowLeft'){e.preventDefault();step(-1)}if(e.key==='ArrowRight'){e.preventDefault();step(1)}});modal.addEventListener('click',e=>{if(e.target===modal)modal.close()});
 </script></body></html>

diff --git a/colorcheck/screenshots/v5/research/FINDINGS.md b/colorcheck/screenshots/v5/research/FINDINGS.md
@@ -52,7 +52,7 @@ Jev 1.13.0. 30 прежних синтетических профилей (24 т
 
 Baseline продукта тот же: `836e724`. ColorResultView — сезон и цвета; ScanResultView — BUY/SKIP, объяснение и Instead, Look For. Нового runtime-прогона не было. Скан требует подписку. Нет обещания бесплатных сканов, точного типа или гарантированной экономии.
 
-Визуальный просмотр выполнен отдельно после генерации и после композиции. Три PNG 1320×2868 RGB, без альфы, проверены на 180/220 px, заголовки и буллеты без переполнения. Архив A и новые файлы B имеют отдельные пути. Переключение A/B меняет только показанную версию; загрузки у каждой свои. Публичная страница содержит агрегаты и выводы, сырые ответы остаются в приватном репозитории.
+Визуальный просмотр выполнен отдельно после генерации и после композиции. Три PNG 1320×2868 RGB, без альфы, проверены на 180/220 px, заголовки и буллеты без переполнения. Архив A и новые файлы B имеют отдельные пути. По следующей просьбе владельца переключатель A/B убран: новый B показан сверху, предыдущий A целиком ниже на той же странице; загрузки у каждой версии свои. Публичная страница содержит агрегаты и выводы, сырые ответы остаются в приватном репозитории.
 
 ## Воспроизведение
 
